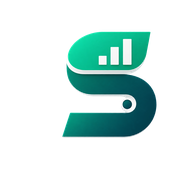
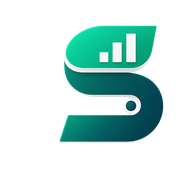
v128 mobile first

Changed region(s): [[0.3333, 0.1389, 0.9167, 0.8056]]

diff --git a/index.html b/index.html
@@ -4,7 +4,7 @@
 <meta charset="utf-8">
 <meta name="viewport" content="width=device-width, initial-scale=1">
 <meta name="theme-color" content="#0f766e">
-<title>SINOP v157 · iPhone Home Screen Launch Fix</title>
+<title>SINOP v158 · iPhone Home Screen Launch Fix</title>
 <meta name="application-name" content="SINOP">
 <meta name="apple-mobile-web-app-title" content="SINOP">
 <meta name="description" content="SINOP — your personal money system for income, spending, savings, investments, goals, KKB, and financial tracking.">
@@ -7217,12 +7217,12 @@ body[data-theme="dark"] .barkada-group-btn,body[data-theme="dark"] .barkada-memb
       </div>
 
       <article class="version-latest-card">
-        <div class="version-latest-badge"><span>Latest</span><strong>v157</strong></div>
+        <div class="version-latest-badge"><span>Latest</span><strong>v158</strong></div>
         <div class="version-latest-copy"><span>September 4, 2026</span><h3>New SINOP App Identity</h3><p>SINOP now uses the new growth-wallet S mark throughout the app shell, login, browser favicon, iPhone Home Screen icon, PWA manifest, and push notifications.</p></div>
       </article>
 
       <div class="version-timeline" id="versionTimeline">
-        <article class="version-entry is-latest" data-version="v157" data-date="September 4, 2026"><div class="version-node"><span></span></div><div class="version-entry-card"><header><div><span>v157</span><h3>New SINOP App Identity</h3></div><time>Sep 4, 2026</time></header><ul><li>Replaced the old hard-coded S logo in login, sidebar, and mobile header with the new growth-wallet SINOP mark.</li><li>Updated browser favicon, iPhone Home Screen icon, PWA 192×192 and 512×512 icons, and notification icon assets.</li><li>Preserved the new logo proportions with transparent padding instead of stretching it into a square.</li><li>Retained the iPhone Home Screen and actionable recurring-notification fixes from v156.</li></ul></div></article>
+        <article class="version-entry is-latest" data-version="v158" data-date="September 4, 2026"><div class="version-node"><span></span></div><div class="version-entry-card"><header><div><span>v158</span><h3>New SINOP App Identity</h3></div><time>Sep 4, 2026</time></header><ul><li>Replaced the old hard-coded S logo in login, sidebar, and mobile header with the new growth-wallet SINOP mark.</li><li>Updated browser favicon, iPhone Home Screen icon, PWA 192×192 and 512×512 icons, and notification icon assets.</li><li>Preserved the new logo proportions with transparent padding instead of stretching it into a square.</li><li>Retained the iPhone Home Screen and actionable recurring-notification fixes from v156.</li></ul></div></article>
         <article class="version-entry is-latest" data-version="v155" data-date="September 4, 2026"><div class="version-node"><span></span></div><div class="version-entry-card"><header><div><span>v155</span><h3>iPhone Recurring Notification Tap Action</h3></div><time>Sep 4, 2026</time></header><ul><li>iPhone recurring-expense notifications now use the whole notification as the payment shortcut.</li><li>Tapping the notification opens the exact unpaid occurrence in SINOP and launches the existing payment confirmation sheet.</li><li>Browsers with Web Notification action-button support keep the separate Paid action.</li><li>No payment is silently posted: SINOP still confirms the payment source before changing the ledger.</li></ul></div></article>
         <article class="version-entry" data-version="v154" data-date="September 4, 2026"><div class="version-node"><span></span></div><div class="version-entry-card"><header><div><span>v154</span><h3>Actionable Recurring Notifications</h3></div><time>Sep 4, 2026</time></header><ul><li>Added a Paid action to eligible recurring-expense system notifications.</li><li>Tapping Paid opens the exact unpaid occurrence in the recurring-payment confirmation instead of guessing a payment source.</li><li>Linked credit cards and the configured default spending account are preselected by the existing payment workflow.</li><li>Added the same Paid shortcut to the in-app reminder center for consistency.</li><li>Added a companion service worker that handles notification actions and can route the user back into the correct recurring payment even when SINOP is not already open.</li></ul></div></article>
         <article class="version-entry" data-version="v153" data-date="September 4, 2026"><div class="version-node"><span></span></div><div class="version-entry-card"><header><div><span>v153</span><h3>Authentic Mobile Account Cards</h3></div><time>Sep 4, 2026</time></header><ul><li>Removed generated/fabricated last-four digits from every mobile account card.</li><li>Replaced the broken CSS contactless mark with a proper NFC/contactless SVG positioned beside the chip.</li><li>Top-right card content now shows only the real account currency instead of an ambiguous icon.</li><li>Preserved the circular wheel, tight spacing, fading/blurred rear cards, momentum, and spring snapping.</li></ul></div></article>
